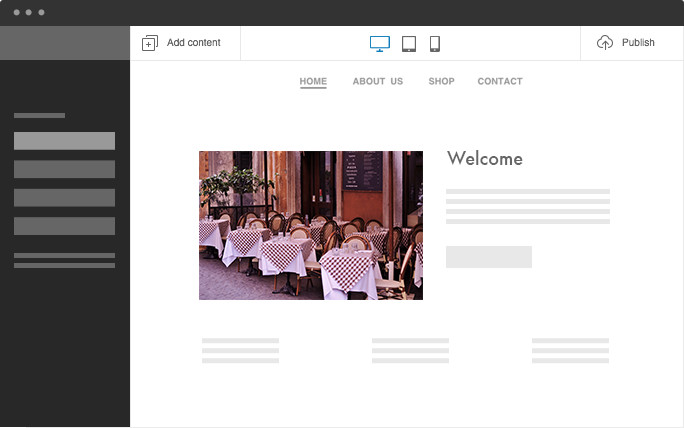
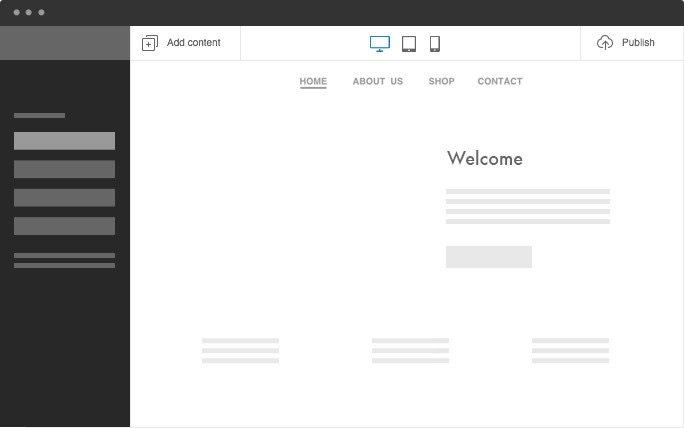
Custom image for editor sample

Changed region(s): [[0.2763, 0.3341, 0.6447, 0.6986], [0.5526, 0.0911, 0.5833, 0.1215]]

diff --git a/less/theme.less b/less/theme.less
@@ -447,6 +447,42 @@ section  .get-started {
             -ms-flex: 0 1 auto;
             flex: 0 1 auto;
         }
+
+        position: relative;
+
+        .custom-image {
+            position: absolute;
+            top: 0;
+            right: 0;
+            bottom: 0;
+            left: 0;
+
+            img {
+                max-height: 100%;
+                object-fit: cover;
+                position: absolute;
+                top: 0;
+                right: 0;
+                bottom: 0;
+                left: 0;
+                height: 100%;
+                display: block;
+                width: 100%;
+            }
+
+            .image-link {
+                pointer-events: none;
+            }
+
+            .widget {
+                width: 32.8%;
+                height: 34%;
+                display: block;
+                position: absolute;
+                top: 34.5%;
+                left: 29.2%;
+            }
+        }
     }
 
     img {

diff --git a/less/plugin-tabs.less b/less/plugin-tabs.less
@@ -213,11 +213,13 @@ input:checked + label span span.menu:before {
       display: block;
       width: 100%;
     }
+
+    .image-link {
+      pointer-events: none;
+    }
   }
 
-  .custom-image .image-link {
-    pointer-events: none;
-  }
+
 }
 
 
